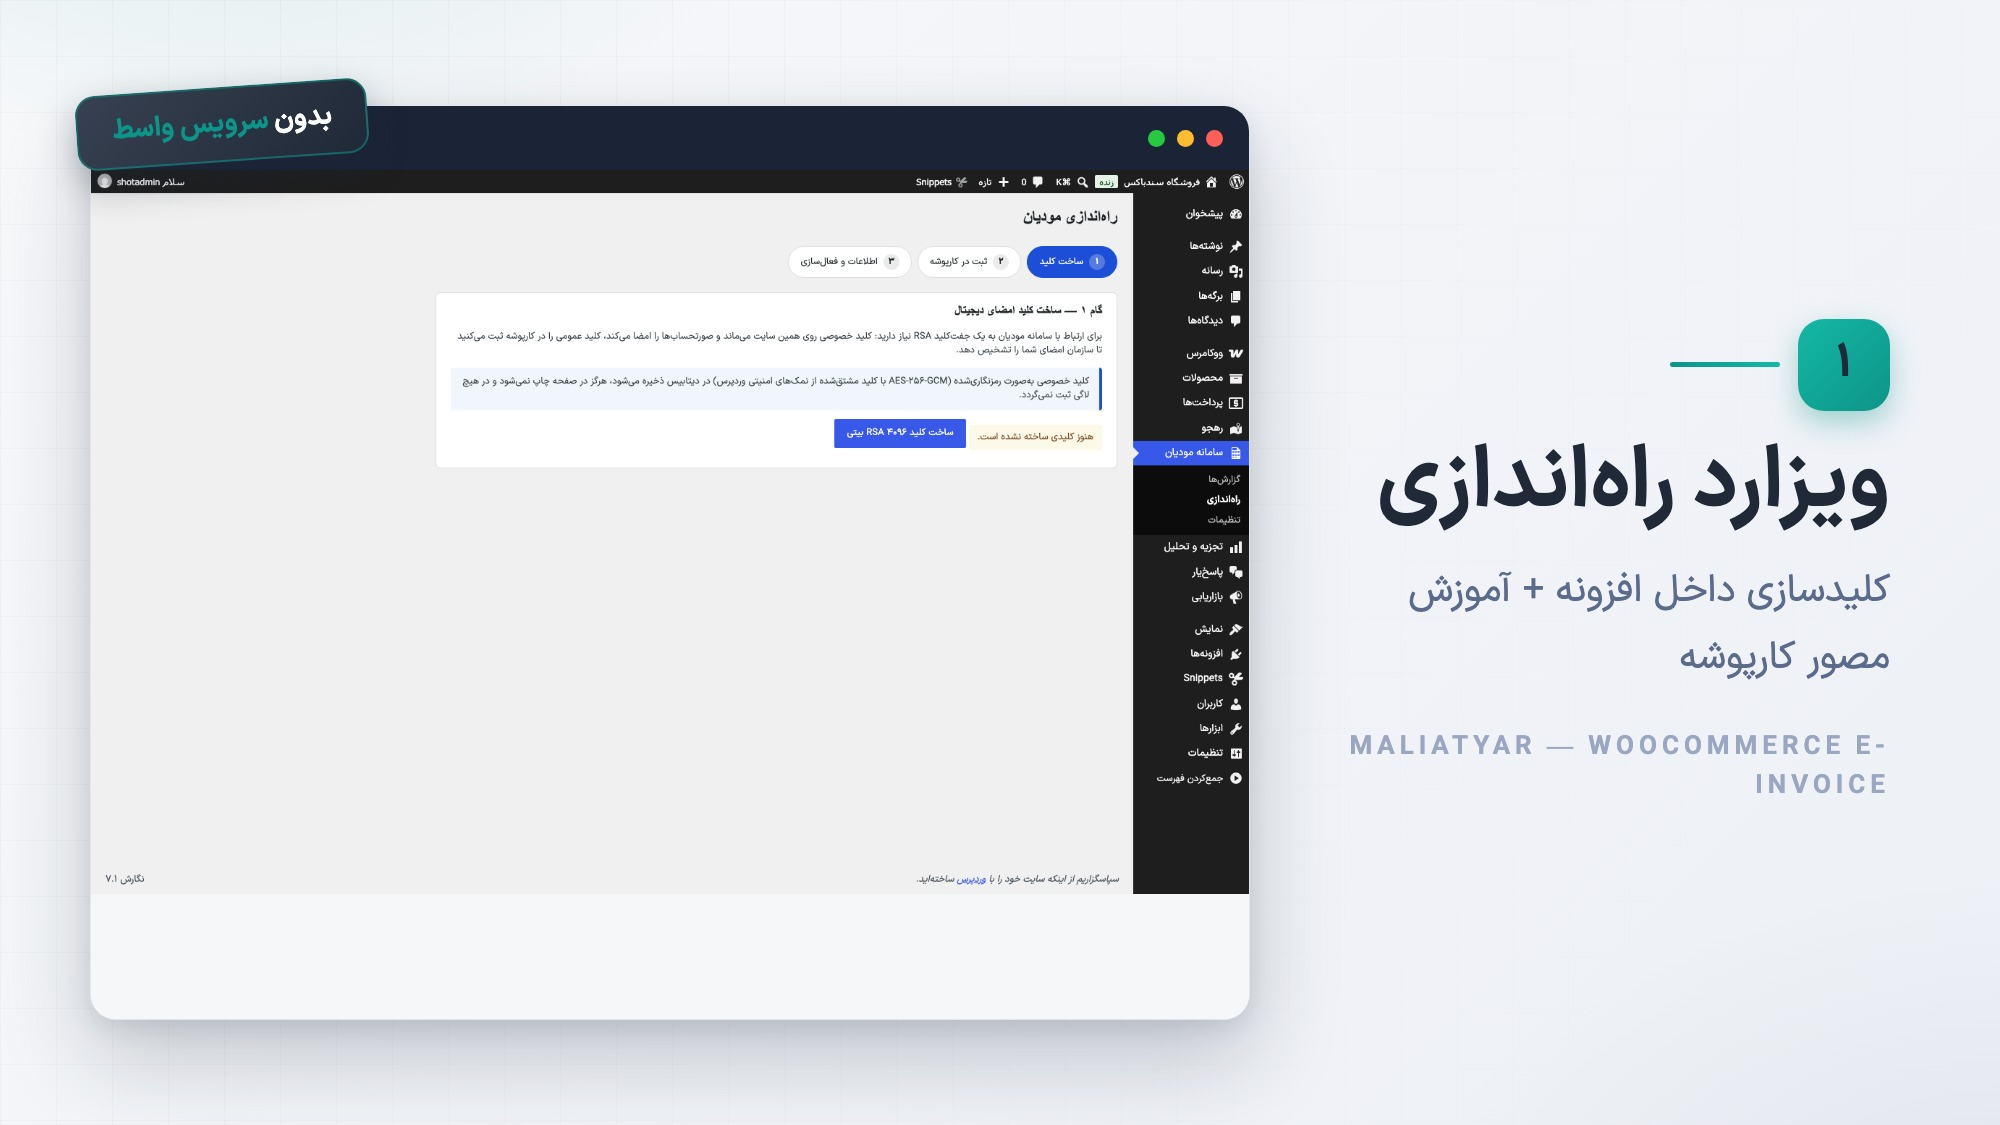
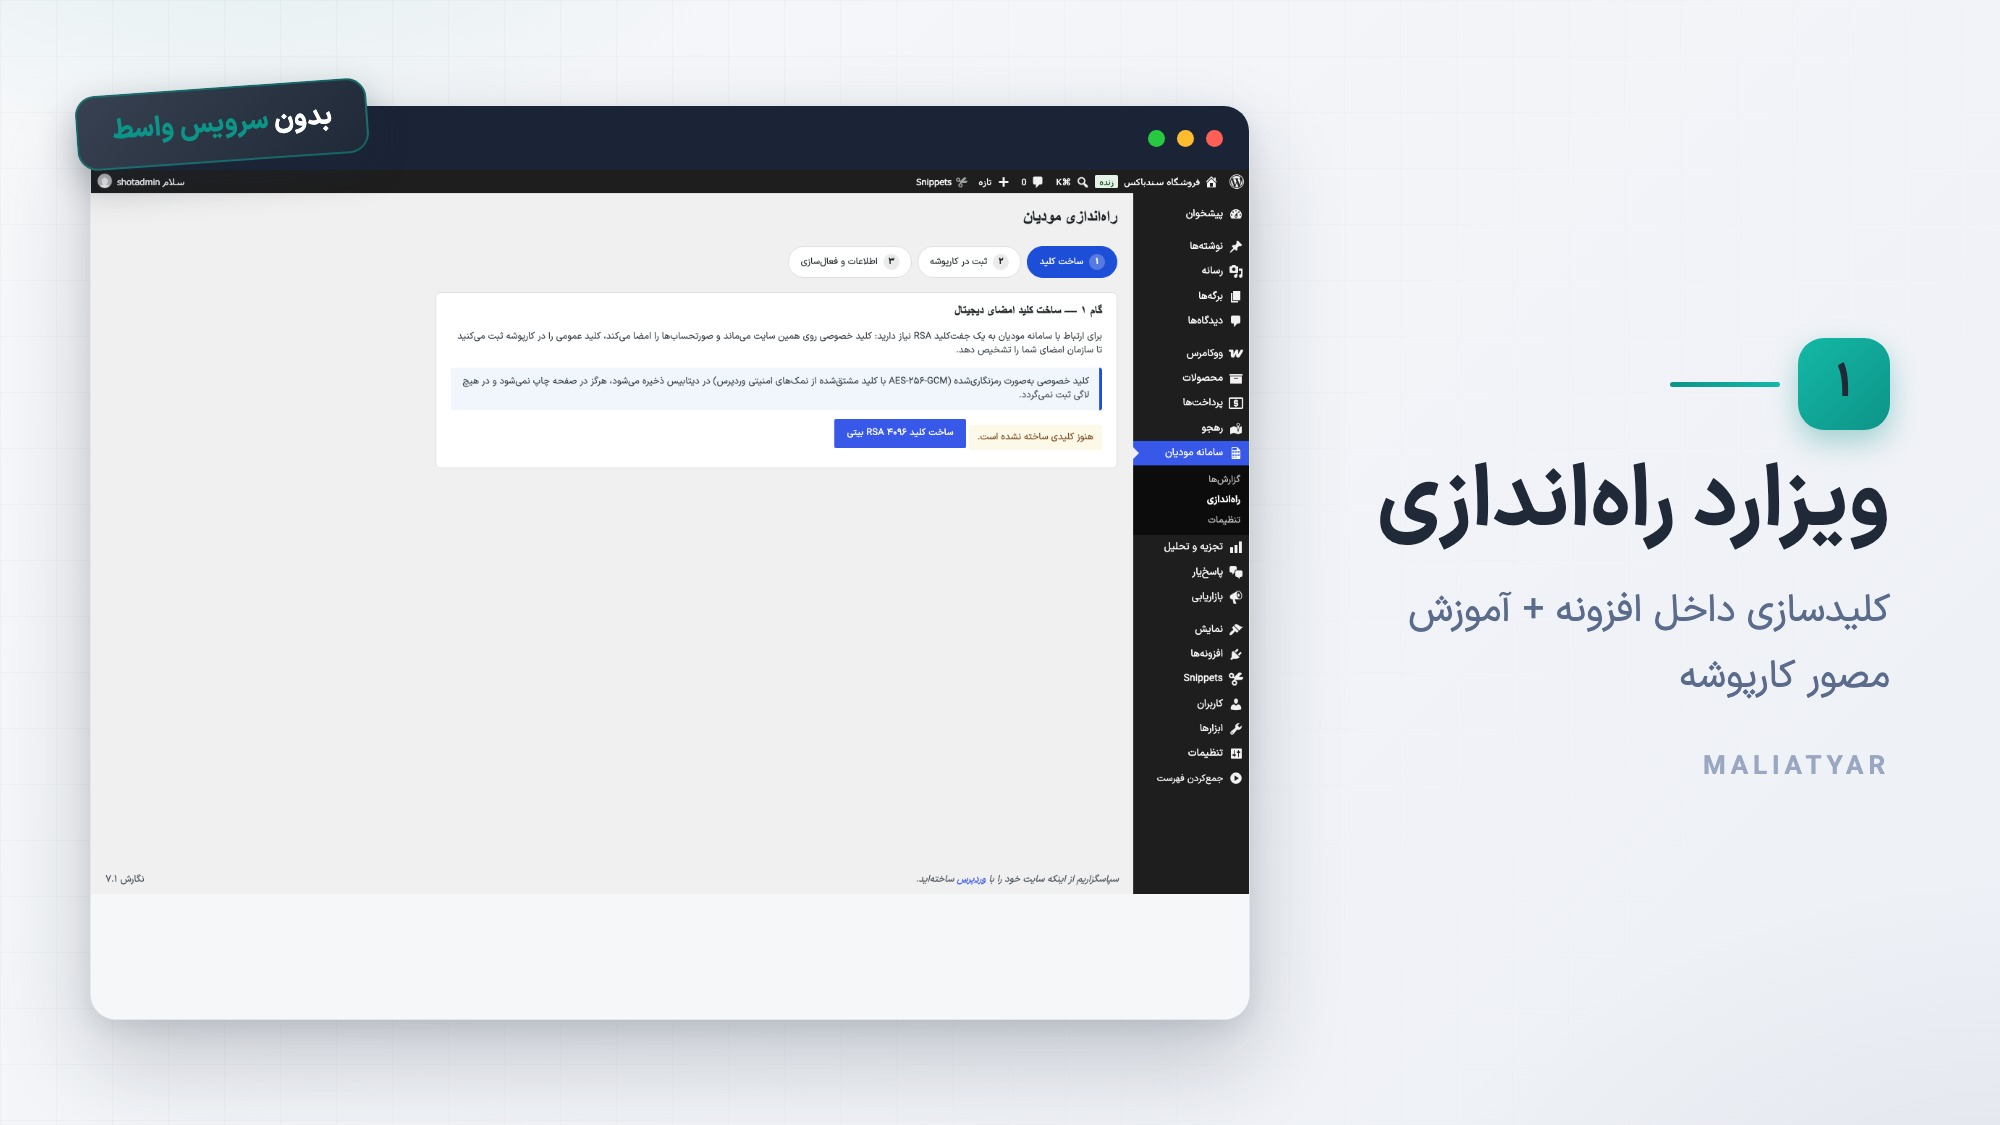
maliatyar: fix caption overflow in slides, correct wording to name the Moadian system
Same slide.html caption fix as the product repo (MALIATYAR alone, was
wrapping onto 2 lines) + "سامانه مودیان" wording applied consistently in
the landing's section heading and footer, matching the cover/thumb fix.

Changed region(s): [[0.682, 0.28, 0.961, 0.6222], [0.682, 0.6533, 0.961, 0.7156]]

diff --git a/maliatyar/index.html b/maliatyar/index.html
@@ -145,7 +145,7 @@ footer{border-top:1px solid var(--line);padding:26px 0 40px;color:var(--mut);fon
   <div class="wrap">
     <div class="sec-head">
       <span class="k">امکانات</span>
-      <h2>چرخهٔ کامل صورتحساب الکترونیکی</h2>
+      <h2>چرخهٔ کامل صورتحساب الکترونیکی سامانه مودیان</h2>
       <p>از فعالسازی تا ابطال و اصلاحیه — همهچیز داخل ووکامرس</p>
     </div>
     <div class="grid">
@@ -216,7 +216,7 @@ footer{border-top:1px solid var(--line);padding:26px 0 40px;color:var(--mut);fon
 </div>
 
 <footer>
-  <div class="wrap">مالیاتیار — افزونه صورتحساب الکترونیکی ووکامرس · مطابق مستندات رسمی نسخه ۲ سازمان امور مالیاتی</div>
+  <div class="wrap">مالیاتیار — افزونه صورتحساب الکترونیکی سامانه مودیان · مطابق مستندات رسمی نسخه ۲ سازمان امور مالیاتی</div>
 </footer>
 
 </body>
